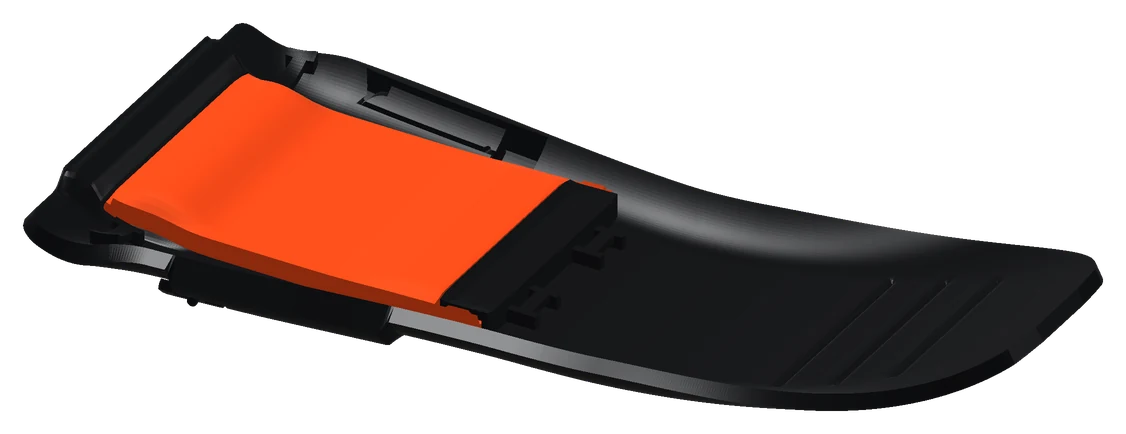
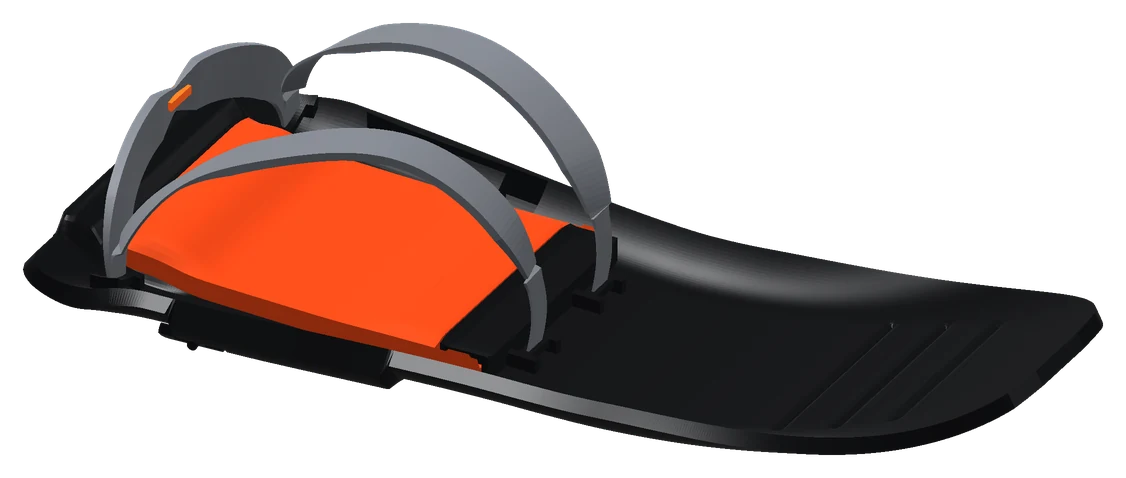
Kinder-Rennbob: Bilder mit Tragegurten
Claude-Session: https://claude.ai/code/session_01QTYNKcNVk7yLgAZTw7TRFY

diff --git a/kinder-rennbob/index.html b/kinder-rennbob/index.html
@@ -45,7 +45,7 @@ h1,h2,h3{font-family:'Space Grotesk',system-ui,sans-serif;margin:0}
 </header>
 
 <div style="max-width: 1240px; margin: 0 auto; padding: 200px 32px 48px">
-<img src="img/seite.webp" alt="Der schwarze Kinder-Rennbob in der Seitenansicht, mit oranger Sitzplatte" style="width: 100%; height: auto; display: block">
+<img src="img/seite.webp" alt="Der schwarze Kinder-Rennbob in der Seitenansicht, mit oranger Sitzplatte und Tragegurten" style="width: 100%; height: auto; display: block">
 </div>
 </div>
 </div>
@@ -107,7 +107,7 @@ h1,h2,h3{font-family:'Space Grotesk',system-ui,sans-serif;margin:0}
 <p style="margin: 0; font-size: 18px; line-height: 1.6; color: #33353A">Sitzplatte zum Rücken, Nase nach oben. Zwei Schultergurte und ein Hüftgurt an vier angeformten Gurtbrücken halten den Bob ruhig am Körper. Am Heck polstert ein Gummi-Kantenschutz – und die aufgebogene Nase schirmt den Kopf ein wenig vor Schnee ab.</p>
 </div>
 <div style="flex: 1.3 1 480px; min-width: 0; display: grid; grid-template-columns: repeat(auto-fit, minmax(240px, 1fr)); gap: 20px">
-<figure style="margin: 0; background: #E6E7E3; border-radius: 20px; padding: 20px"><img src="img/sitz.webp" alt="Heck mit Sitzplatte, Lendenrolle und Gurtbrücken" style="width: 100%; height: auto; display: block"><figcaption style="font-size: 14px; color: #4A4C50; margin-top: 10px">Sitzbereich mit Lendenrolle</figcaption></figure>
+<figure style="margin: 0; background: #E6E7E3; border-radius: 20px; padding: 20px"><img src="img/sitz.webp" alt="Sitzbereich mit Schultergurten, Hüftgurt und Sitzplatte" style="width: 100%; height: auto; display: block"><figcaption style="font-size: 14px; color: #4A4C50; margin-top: 10px">Schultergurte und Hüftgurt an den Gurtbrücken</figcaption></figure>
 <figure style="margin: 0; background: #E6E7E3; border-radius: 20px; padding: 20px"><img src="img/unten.webp" alt="Unterseite mit Edelstahlkufen" style="width: 100%; height: auto; display: block"><figcaption style="font-size: 14px; color: #4A4C50; margin-top: 10px">Unterseite: geschlossen, Kufen aus Edelstahl</figcaption></figure>
 </div>
 </section>
